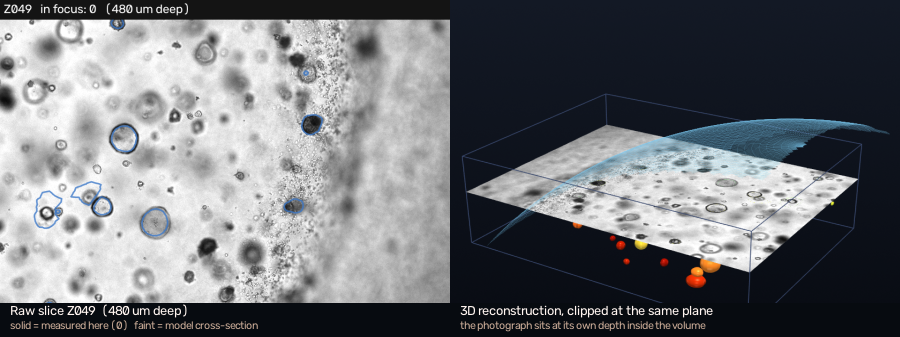
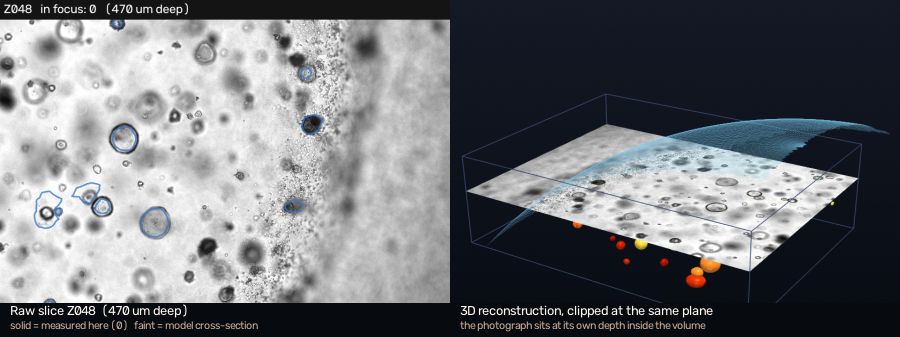
Make the animations smooth instead of merely slow
Slowness and smoothness are different problems and the previous attempts only
addressed the first. A rotation built from 72 frames steps 5 degrees at a time;
stretching the delay makes it step slowly rather than turn continuously. The
orbit now runs at 240 frames, 20 fps, 1.5 degrees per step -- 12 seconds per
revolution and continuous at every point. The other figures gain frames on the
same reasoning.

That frame budget is paid for by how the GIFs are written. Every frame is now
quantised against one shared palette with dithering off: Floyd-Steinberg
scatters noise that differs on every frame across the smooth background of a 3D
render, which is invisible at a glance but defeats compression and roughly
doubles the file. Undithered, three times the frames cost barely more than the
old version did.

The palette is 176 colours rather than the 80 that first fit the size budget.
Eighty posterises the shading on the spheres and collapses the depth colour
ramp, which is the one thing the figure exists to show.

diff --git a/make_docs_media.py b/make_docs_media.py
@@ -222,31 +222,46 @@ def _label(img: np.ndarray, text: str, sub: str = "") -> np.ndarray:
 
 
 def _save_gif(path: Path, frames, delay_ms: int, palettesize: int = 64) -> None:
-    """Write a GIF, quantised hard, with a frame delay that actually sticks.
+    """Write a GIF with one shared, undithered palette.
 
-    `duration` here is in **milliseconds**. Passing seconds silently rounds the
-    delay to zero, the file ends up with no timing at all, and every browser
-    falls back to its own minimum -- which is why several earlier attempts to
-    slow these animations down changed nothing. The written delay is read back
-    and asserted for exactly that reason.
+    Two details matter more than they look.
 
-    These are mostly greyscale micrographs, so a 64-colour palette is visually
-    indistinguishable from 256 and roughly halves the file. Four full-size GIFs
-    in one README is a slow page otherwise.
+    *Delay unit.* It is written in **milliseconds**. Passing seconds silently
+    rounds the delay to zero, the file ends up with no timing at all, and every
+    browser falls back to its own minimum -- which is why earlier attempts to
+    slow these animations down changed nothing. The value is read back from the
+    finished file and asserted.
+
+    *No dithering.* Floyd-Steinberg scatters per-frame noise across the smooth
+    background gradient of a 3D render. That noise is invisible at a glance but
+    it is different on every frame, so it defeats compression and roughly
+    doubles the file. Quantising every frame against one global palette with
+    dithering off is what makes a high frame-rate animation affordable, and a
+    high frame rate is the only way rotation looks smooth rather than stepped.
     """
-    import imageio.v2 as imageio
     from PIL import Image
 
-    imageio.mimsave(path, frames, format="GIF", duration=int(delay_ms), loop=0,
-                    palettesize=palettesize)
+    pil = [Image.fromarray(f) for f in frames]
+    # derive one palette from a spread of frames so colours never shift mid-loop
+    sample = pil[:: max(1, len(pil) // 12)] or pil[:1]
+    w, h = pil[0].size
+    strip = Image.new("RGB", (w, h * len(sample)))
+    for i, im in enumerate(sample):
+        strip.paste(im, (0, i * h))
+    pal = strip.quantize(colors=palettesize, method=Image.Quantize.MEDIANCUT)
+
+    quant = [im.quantize(palette=pal, dither=Image.Dither.NONE) for im in pil]
+    quant[0].save(path, save_all=True, append_images=quant[1:],
+                  duration=int(delay_ms), loop=0, disposal=1, optimize=True)
 
     with Image.open(path) as im:
         im.seek(min(1, im.n_frames - 1))
         written = im.info.get("duration", 0)
+        n = im.n_frames
     if not written:
         raise RuntimeError(f"{path}: frame delay was not stored (got {written!r})")
-    print(f"  {path}  ({path.stat().st_size / 1e6:.1f} MB, "
-          f"{written} ms/frame, {im.n_frames * written / 1000:.1f} s loop)")
+    print(f"  {path}  ({path.stat().st_size / 1e6:.1f} MB, {n} frames, "
+          f"{written} ms/frame, {n * written / 1000:.1f} s loop)")
 
 
 def _focus_gif(stack, organoids, params, docs, imageio, n_frames,
@@ -296,11 +311,11 @@ def _focus_gif(stack, organoids, params, docs, imageio, n_frames,
                              panel_w - panel_w // 2, panel_w // 2)
         frames.append(cv2.cvtColor(np.hstack([img, panel]), cv2.COLOR_BGR2RGB))
 
-    _save_gif(docs / "focus.gif", frames, 150, palettesize=64)
+    _save_gif(docs / "focus.gif", frames, 90, palettesize=128)
 
 
 def _edf_gif(stack, params, docs, imageio, prof, meta,
-             imageio_frames: int = 28, width: int = 840) -> None:
+             imageio_frames: int = 40, width: int = 840) -> None:
     """Left: slices sweeping. Right: the all-in-focus image building up."""
     from jx3d.focus import tenengrad
 
@@ -336,16 +351,16 @@ def _edf_gif(stack, params, docs, imageio, prof, meta,
         print(f"\r  edf {len(frames)}/{imageio_frames}", end="", flush=True)
     print()
 
-    for _ in range(6):                      # hold on the finished projection
+    for _ in range(10):                     # hold on the finished projection
         frames.append(frames[-1])
-    _save_gif(docs / "edf.gif", frames, 150, palettesize=64)
+    _save_gif(docs / "edf.gif", frames, 110, palettesize=128)
 
 
 def main(argv=None) -> int:
     ap = argparse.ArgumentParser(description="Build README figures")
     ap.add_argument("outdir")
     ap.add_argument("--docs", default="docs")
-    ap.add_argument("--frames", type=int, default=26)
+    ap.add_argument("--frames", type=int, default=44)
     ap.add_argument("--width", type=int, default=900)
     a = ap.parse_args(argv)
 
@@ -406,7 +421,7 @@ def main(argv=None) -> int:
         print(f"\r  frame {i + 1}/{len(zs)}", end="", flush=True)
     print()
 
-    _save_gif(docs / "slicer.gif", frames, 160, palettesize=64)
+    _save_gif(docs / "slicer.gif", frames, 110, palettesize=144)
 
     # single representative still, for the top of the README
     mid = frames[len(frames) // 2]
@@ -417,11 +432,11 @@ def main(argv=None) -> int:
     orbit = OrbitScene(outdir / "organoids.ply", dims, substrate_um,
                        dome=dome, scale=scale)
     frames = []
-    n_orb = 72
+    n_orb = 240
     for i in range(n_orb):
         az = 360.0 * i / n_orb
         f = orbit.frame(az, 22.0)
-        ow = 680
+        ow = 520
         f = cv2.resize(f, (ow, int(f.shape[0] * ow / f.shape[1])),
                        interpolation=cv2.INTER_AREA)
         cal_txt = (f"{units['px_um']:.2f} µm/px · {units['z_um']:.0f} µm/slice"
@@ -431,9 +446,13 @@ def main(argv=None) -> int:
         frames.append(cv2.cvtColor(f, cv2.COLOR_BGR2RGB))
         print(f"\r  orbit {i + 1}/{n_orb}", end="", flush=True)
     print()
-    # 72 frames over a full turn at 300 ms each: 21.6 s per revolution, 5 deg
-    # per step. Slow enough to follow an individual organoid all the way round.
-    _save_gif(docs / "orbit.gif", frames, 300, palettesize=96)
+    # Smoothness is a frame-rate problem, not a delay problem: a slow rotation
+    # built from few frames just steps slowly. 240 frames at 20 fps gives 1.5
+    # deg per step over a 12 s revolution -- calm and continuous at once.
+    # 176 colours, not 80: undithered quantisation to a small palette
+    # posterises the smooth shading on the spheres and collapses the depth
+    # colour ramp, which is the one thing this figure is meant to show.
+    _save_gif(docs / "orbit.gif", frames, 50, palettesize=176)
 
     # ------------------------------------------------------------- focus.gif
     # The core idea, on one organoid: its rim is crisp only near its own
@@ -441,7 +460,7 @@ def main(argv=None) -> int:
     _focus_gif(stack, organoids, params, docs, imageio, a.frames)
 
     # --------------------------------------------------------------- edf.gif
-    _edf_gif(stack, params, docs, imageio, prof, meta, imageio_frames=28)
+    _edf_gif(stack, params, docs, imageio, prof, meta, imageio_frames=40)
 
     # copy the static figures the pipeline already produced
     for name, dest in [("qc_edf.png", "recall.png"),
